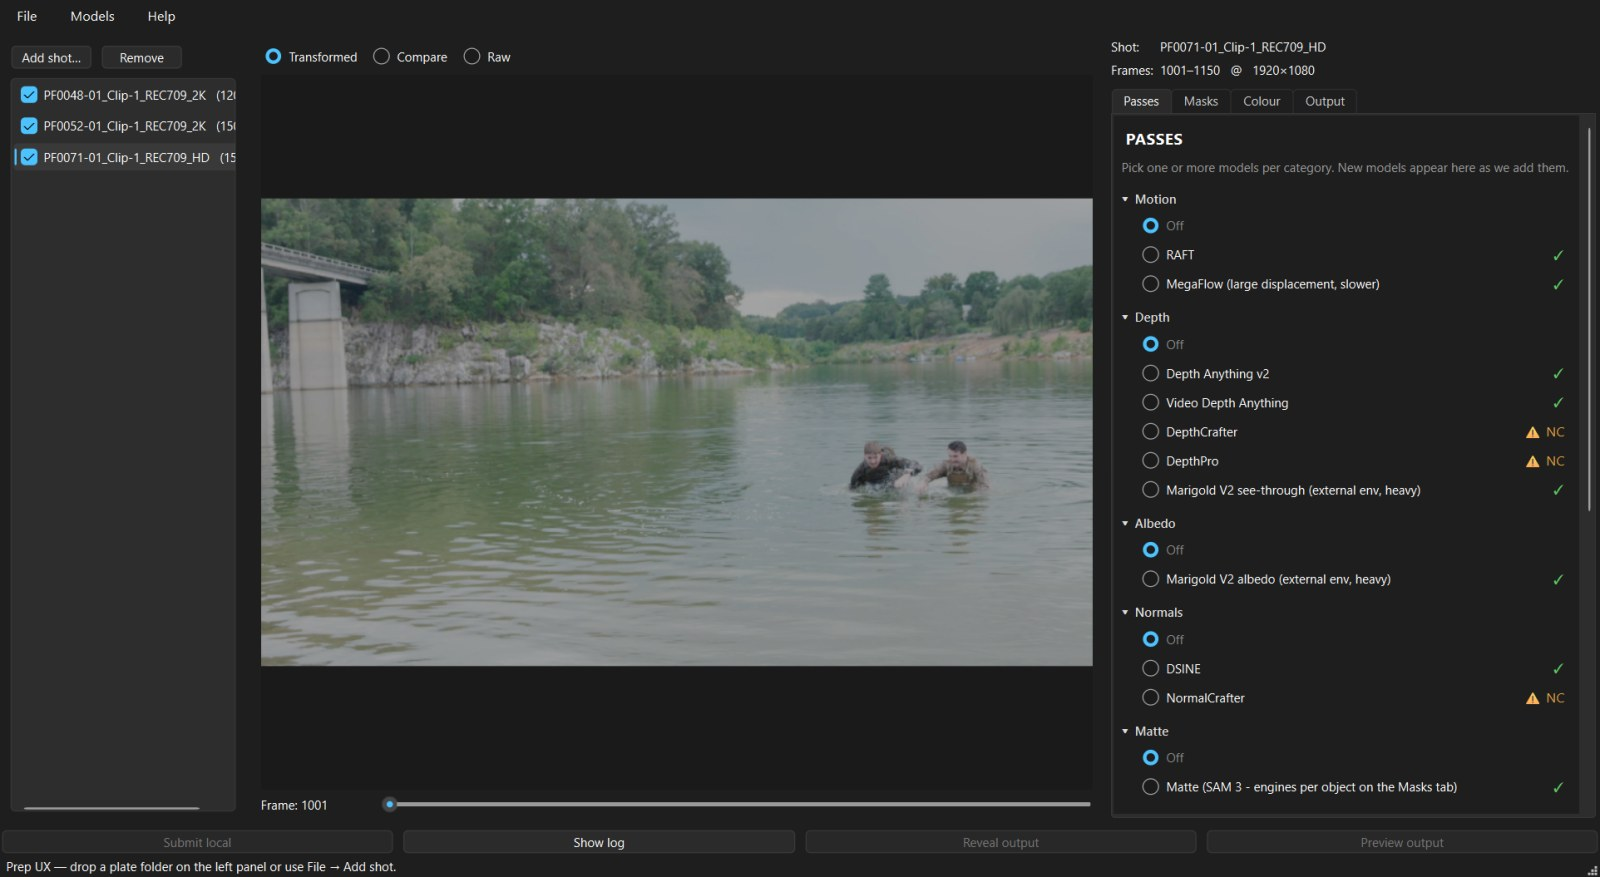
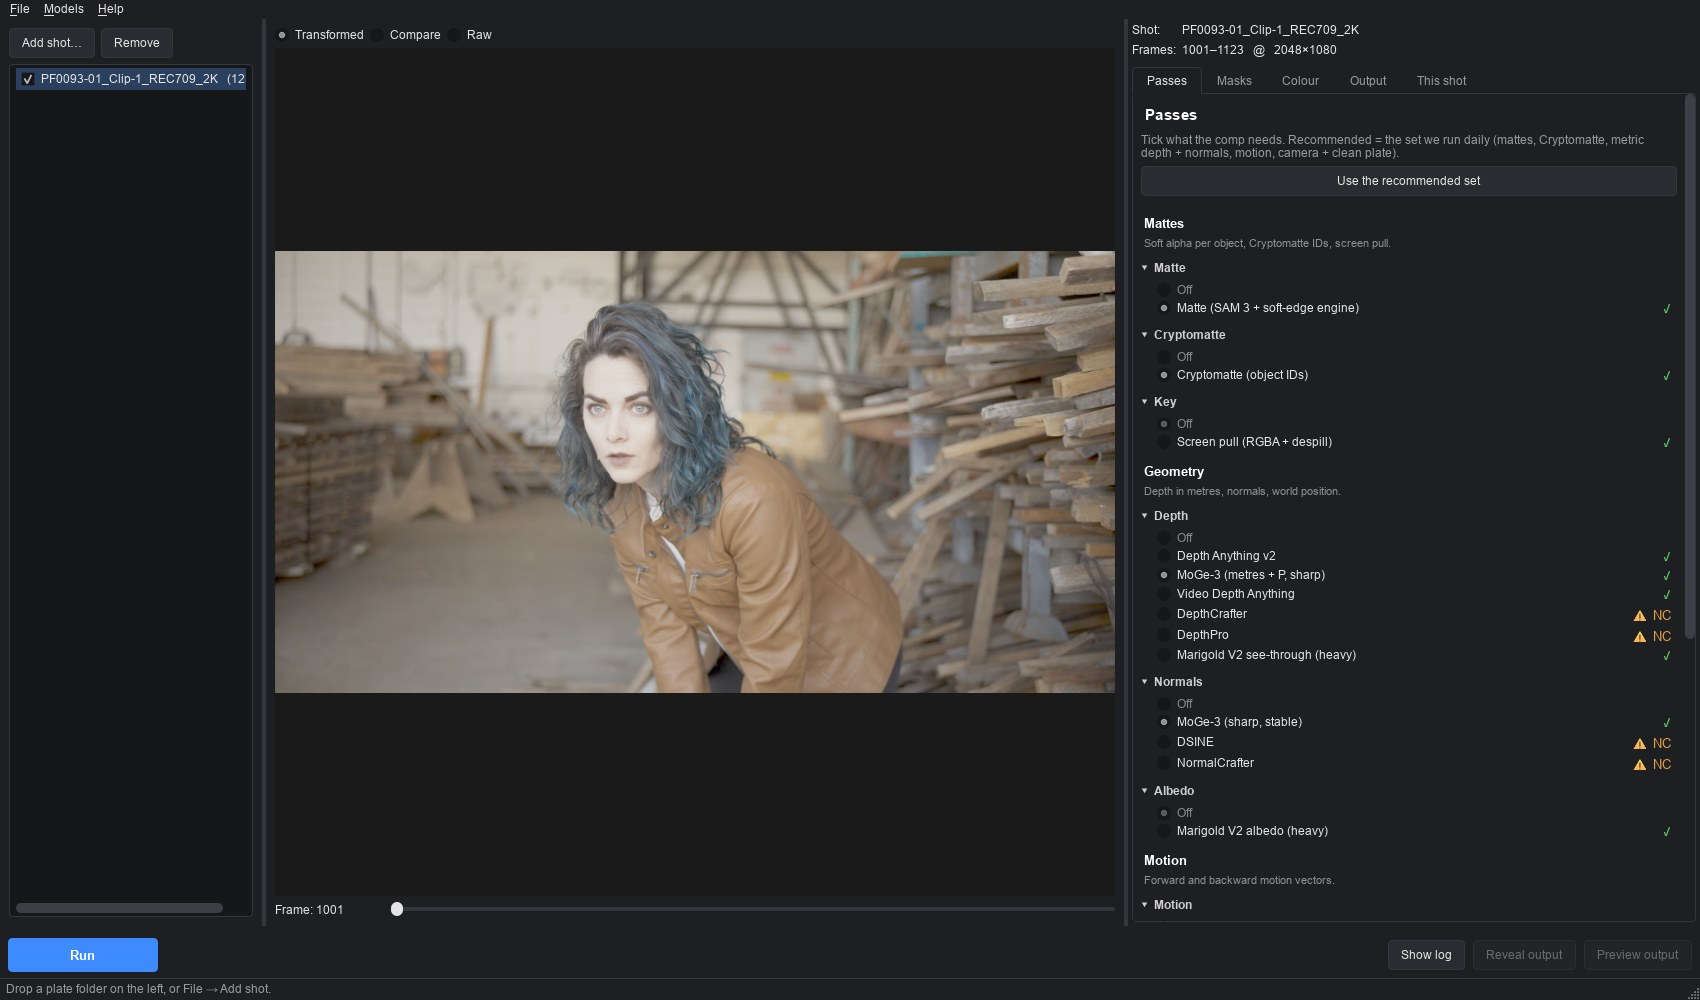
docs: LTX roto GIFs (hair, motion blur, water) and new GUI screenshots in the README; This shot tab in the user guide

diff --git a/README.md b/README.md
@@ -73,13 +73,13 @@ Updating later: `.\update.bat` or `./update.sh`. Studio machines with no interne
 ## First shot, in the app
 
 1. Drop a plate folder on the shot list. The viewport shows what the models will see.
-2. Tick the passes. The defaults are the commercial-safe ones; anything non-commercial is marked **NC** and asks before it runs.
-3. In the **Masks** tab, click the people and things you want mattes for. A box or 2-6 clicks is enough; preview the mask before you commit.
-4. **Submit local**. Watch the log, or go for a coffee.
+2. Press **Use the recommended set**, or tick the passes yourself. The defaults are the commercial-safe ones; anything non-commercial is marked **NC** and asks before it runs.
+3. In the **Masks** tab, say what to find by name (People, People + vehicles, Everything) and add your own objects: a box or 2-6 clicks, preview the mask before you commit. Each object can have its own soft-edge engine and its own `matte.rgba` slot.
+4. **Run**. Watch the log, or go for a coffee. The Output tab is one setting for every shot of the session; a single shot's frame range and crop live in **This shot**.
 5. Right-click the shot, **Preview output**, and scrub every layer over the plate. Or open the `.comp.nk` in Nuke.
 
 <p align="center">
-  <img src="docs/img/click-to-mask.png" alt="Masks tab: click an object, preview the SAM 3 mask, build a named per-object list" width="900">
+  <img src="docs/img/gui-masks-tab.png" alt="Masks tab: what to find by name, your own objects, and the selected object's name, soft-edge engine and matte slot" width="900">
 </p>
 
 ## Where it lands
@@ -103,12 +103,22 @@ Or pick one root for the whole session in the Output tab (`--out` on the command
 Tick **Matte** and every person, vehicle and animal in the shot is found and tracked into a named Cryptomatte ID (sky, buildings and trees get an ID too, but never take one of the four `matte.rgba` slots from a subject). For anything else, click it in the viewport or drag a box around it. The soft alpha with hair, motion blur and fine edges is written to `matte.*`. Green and blue screen keying is one click away in the same menu.
 
 <p align="center">
-  <img src="docs/img/birefnet-roto.gif" alt="Soft matte over a live-action plate: hair and motion-blur edge detail" width="720">
+  <img src="docs/img/ltx-roto-hair.gif" alt="LTX Alpha roto: plate, soft matte with every strand of hair, and the subject over a flat colour" width="900">
 </p>
 
 **LTX Alpha** is the default engine for the soft edge. **LTX-2.5 with the alpha-gen IC-LoRA** runs once on the **whole frame** and decides by itself what the foreground is; each tracked object then takes the foreground nearest to it. One run whatever the number of objects, and no mask cuts the outline, so it keeps what trimap matting loses: semi-transparent motion blur, strands of hair, a shoulder the tracker missed. Props and people nobody tracked land in a `foreground.a` layer. For the one object that needs more pixels (small, far away, fine hair on the hero), pick **LTX Alpha crop** on it in the Masks tab: it gets its own run on a rectangle around it.
 
 LTX runs in **your own ComfyUI** (the weights are not bundled; a one-click setup is in the works). Set its address in **Models > ComfyUI for LTX Alpha** and press **Test**. It checks the server, the nodes and the model files, and finds GGUF builds for smaller cards. Without ComfyUI the mattes come from ViTMatte (SAM finds the object, BiRefNet says where it is sure, ViTMatte resolves hair and blur), the log says so, and the run carries on. About a minute and a half per 100 frames at 2K on an RTX 5090.
+
+<p align="center">
+  <img src="docs/img/ltx-roto-motion.gif" alt="LTX Alpha roto on a running figure: the motion blur stays soft in the matte" width="900">
+</p>
+
+<p align="center">
+  <img src="docs/img/ltx-roto-water.gif" alt="LTX Alpha roto on two people wading: the splashes come through as semi-transparent matte" width="900">
+</p>
+
+> Three runs with the defaults, nothing painted, nothing clicked: plate, the `foreground.a` matte, and the comp over a flat colour. Hair, motion blur, water. About a minute and a half of LTX per 100 frames on an RTX 5090.
 
 ### Geometry: depth in metres, normals, position
 
@@ -140,7 +150,11 @@ Add **Gaussian splat** and the camera plus the plate train a 3D Gaussian splat o
 ## The app
 
 <p align="center">
-  <img src="docs/img/gui-passes-tab.jpg" alt="LiveActionAOV: Passes tab" width="900">
+  <img src="docs/img/gui-passes-tab.jpg" alt="LiveActionAOV: the Passes tab, grouped by what the comp needs" width="900">
+</p>
+
+<p align="center">
+  <img src="docs/img/gui-output-tab.png" alt="Output tab: one setting for every shot, with the settings proposed for this machine" width="900">
 </p>
 
 Three panels: shots on the left, the plate in the middle (what the models see, a compare view, or the raw plate), passes, masks, colour and output on the right. Every model shows its licence inline. The Output tab reads the card and the RAM and proposes the proxy size and the detector. Batches run unattended, a failed shot does not stop the queue, a long shot is cut in windows instead of running out of memory, and a model that crashes loses that pass only.

diff --git a/docs/user-guide.md b/docs/user-guide.md
@@ -96,8 +96,8 @@ liveaov-gui
    - **Engine** (beside the object list) sets this object's own soft-edge engine; picking one re-previews the object with it straight away, and the submit uses the same engine. Default = the run engine from the Passes tab.
    - **Fewer inputs work better** — a box or 2–6 points beats dozens; SAM collapses under too many point constraints.
    - At submit, each object propagates across the shot into a `mask.<name>` channel + a named **Cryptomatte ID**.
-4. **Output tab** — at the top, **this shot only**: the **frames** to process (in / out inside the plate, *Whole plate* resets) and a **crop**: press *Draw crop in viewer*, drag a box on the image. Passes run on that box only (faster, and a small subject fills the models' input); the EXRs keep the full plate as display window with the box as data window, so Nuke places them where they belong. The camera track and the clean plate need the whole frame and refuse to run with a crop.
-   Below, for every shot: where the versions go (next to the plate, or one **root**; remembered between sessions), an optional proxy resolution for fast iterations, the EXR delivery, the **layout** (one multi-layer EXR, one Read in Nuke; or one EXR per pass in subfolders `passes/depth/`, `passes/matte/` ...) and the **file naming** template, see [File naming](#file-naming). Every run is a new version, see [Output folders](#output-folders).
+4. **Output tab** — one setting for every shot of the session: where the versions go (next to the plate, or one **root**; remembered between sessions), the **proxy** size with the settings proposed for this machine (*Use suggested*), the EXR delivery, the **layout** (one multi-layer EXR, one Read in Nuke; or one EXR per pass in subfolders `passes/depth/`, `passes/matte/` ...) and the **file naming** template, see [File naming](#file-naming). Every run is a new version, see [Output folders](#output-folders). A clip that does not fit the free RAM is run in windows of frames by itself.
+5. **This shot tab** — optional, for the selected shot alone: the **frames** to process (in / out inside the plate, *Whole plate* resets), a **crop** (press *Draw in viewer*, drag a box on the image: passes run on that box only, the EXRs keep the full plate as display window with the box as data window, so Nuke places them; the camera track and the clean plate need the whole frame and refuse a crop) and the shot's **folder name**.
 5. **Submit local** — runs the pipeline; a log panel shows progress.
 6. **Preview output** (button, or right-click a shot) — look at what the last run made without Nuke: pick a version and a layer (each mask, depth, normals, flow, the splat clean plate ...), scrub frames, show a mask over the plate. Camera and splat solves are summarised (frames solved, reprojection error, PSNR). Right-click also opens the output / plate folder and the comp in Nuke.
 

diff --git a/CHANGELOG.md b/CHANGELOG.md
@@ -8,7 +8,7 @@ uses [semantic versioning](https://semver.org/).
 
 ### Added
 - **Part of a shot only.** Per shot, a **frame range** (in / out inside the plate) and a **crop**
-  box drawn in the viewer (Output tab → *Draw crop in viewer*; CLI `--first/--last`, `--crop x,y,w,h`).
+  box drawn in the viewer (*This shot* tab → *Draw in viewer*; CLI `--first/--last`, `--crop x,y,w,h`).
   Passes run on the box as if it were the plate (a proxy scales the crop); the EXRs carry the box
   as data window inside the plate's display window, so Nuke places them, and the output preview
   pads them back over the plate. Click prompts move into crop coordinates. The camera track and
@@ -39,6 +39,13 @@ uses [semantic versioning](https://semver.org/).
 - **`liveaov setup-sam31`** builds the SAM 3.1 environment (Python 3.12 venv, PyTorch, Meta's `sam3`
   at the tested commit, the imports it needs but does not declare) in a per-user folder that the
   matte pass finds by itself; finished steps are skipped on a rerun.
+- **Masks tab rebuilt.** *Found by name*: the names SAM looks for (moved here from Passes >
+  Advanced) with People / People + vehicles / Everything. *Your own objects*: the click and box
+  objects, and a *Selected object* block with its name, its soft-edge engine, its **matte slot**
+  (pin an object to `matte.r/g/b/a` instead of the ranking; prompt spec key `slot`) and *Go to*,
+  which scrubs the viewer to the frame the object was drawn on.
+- **Output tab is for the whole session; a new *This shot* tab** holds what belongs to one shot
+  (frames to process, crop, folder name), so a batch never needs a visit to every shot.
 - **LTX Alpha crop** (`crop_labels`, Masks tab: per-object engine *LTX Alpha crop*): inside a
   whole-frame run, the named objects get their own LTX run on a rectangle around them, for the one
   subject that needs more pixels than the whole frame gives it.
